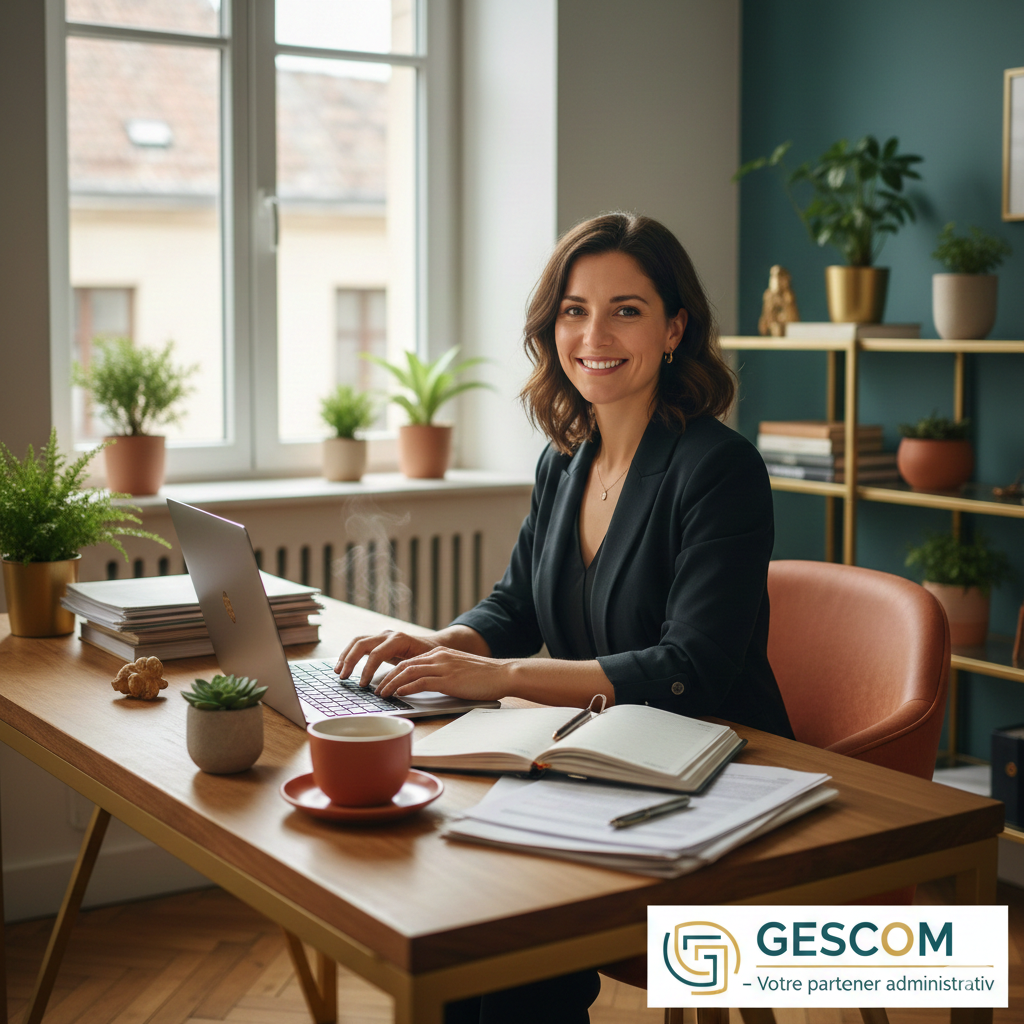
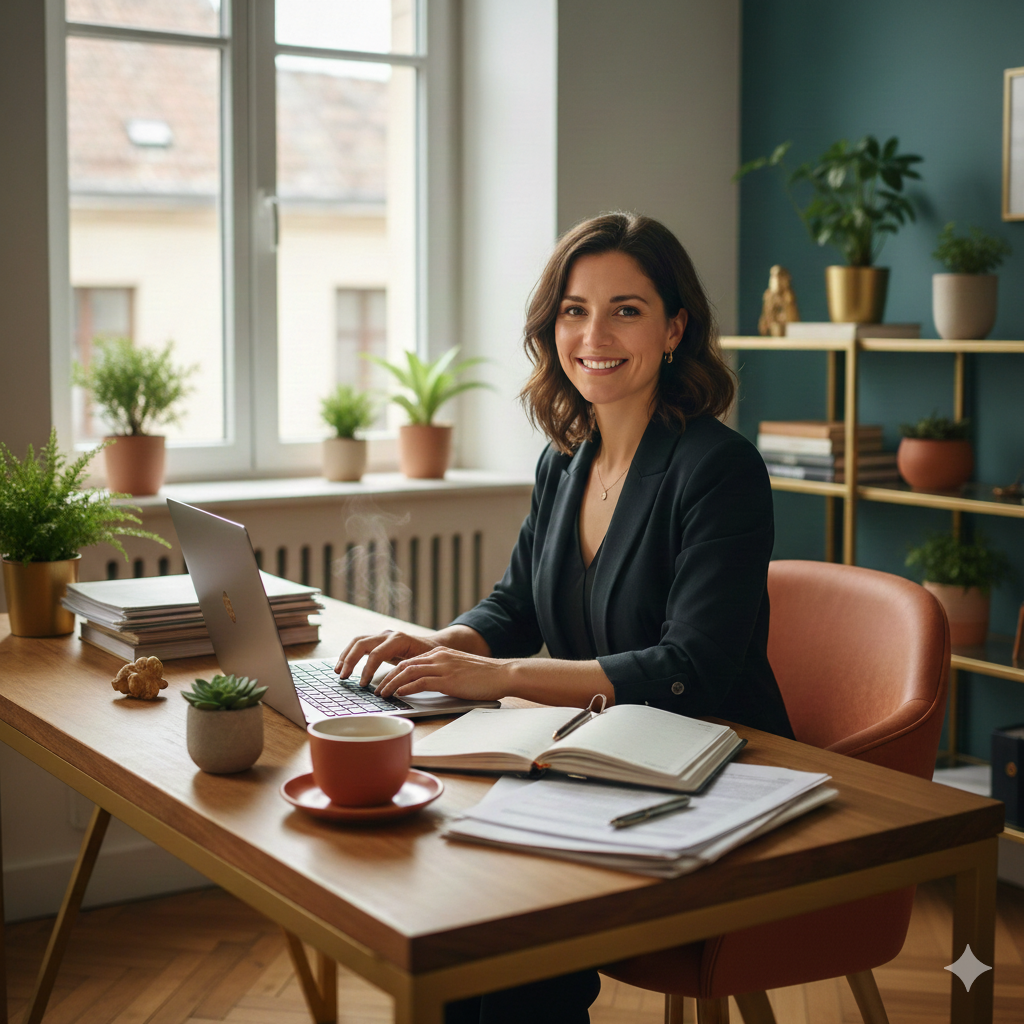
Optimise SEO local Mauricie

Changed region(s): [[0.625, 0.875, 1.0, 1.0], [0.2812, 0.6562, 0.3438, 0.6875]]

diff --git a/finance-template-clean/demo-finance.html b/finance-template-clean/demo-finance.html
@@ -1,11 +1,11 @@
 <!DOCTYPE html>
-<html dir="ltr" lang="en-US">
+<html dir="ltr" lang="fr-CA">
 <head>
 
 	<meta http-equiv="content-type" content="text/html; charset=utf-8">
 	<meta http-equiv="x-ua-compatible" content="IE=edge">
 	<meta name="author" content="SemiColonWeb">
-	<meta name="description" content="GESCOM - Services administratifs &amp; adjointe virtuelle. Votre adjointe administrative, partout et quand vous en avez besoin. Libérez votre temps, je m'occupe de l'administratif.">
+	<meta name="description" content="GESCOM, adjointe administrative en Mauricie (Trois-Rivières, Shawinigan) : services administratifs à distance, gestion des courriels, devis et facturation pour entrepreneurs et PME.">
 
 	<!-- Font Imports -->
 	<link rel="preconnect" href="https://fonts.googleapis.com">
@@ -30,7 +30,7 @@
 
 	<!-- Document Title
 	============================================= -->
-	<title>GESCOM - Votre adjointe administrative à distance</title>
+	<title>GESCOM - Adjointe administrative en Mauricie | Services administratifs</title>
 
 </head>
 
@@ -90,8 +90,8 @@
 			<div class="container">
 				<div class="row align-items-md-end">
 					<div class="col-lg-5 align-self-center flex-column py-6">
-						<h1 class="hero-title display-3 fw-bold color font-body">Votre adjointe administrative à distance</h1>
-						<p class="my-5">Services administratifs &amp; adjointe virtuelle<br>Votre adjointe administrative, partout et quand vous en avez besoin.<br><strong>Libérez votre temps, je m'occupe de l'administratif.</strong></p>
+						<h1 class="hero-title display-3 fw-bold color font-body">Votre adjointe administrative en Mauricie</h1>
+						<p class="my-5">Services administratifs &amp; adjointe virtuelle pour entrepreneurs, PME et travailleurs autonomes en Mauricie (Trois-Rivières, Shawinigan).<br><strong>Libérez votre temps, je m'occupe de l'administratif à distance.</strong></p>
 					<a href="contact.html" class="btn btn-lg btn-dark bg-color rounded-pill mb-5 px-5">Contactez-moi <i class="bi-arrow-right color-2 ms-1"></i></a>
 						<div class="row">
 							<div class="col-sm-6">
@@ -112,7 +112,7 @@
 
 					</div>
 					<div class="col-lg-7 dotted-bg">
-						<img src="demos/finance/images/man.webp" alt="Image 1" class="d-flex align-self-end mt-5 z-1 mx-auto w-75 position-relative">
+						<img src="demos/finance/images/man.webp" alt="Adjointe administrative en Mauricie" class="d-flex align-self-end mt-5 z-1 mx-auto w-75 position-relative">
 					</div>
 				</div>
 			</div>
@@ -128,11 +128,11 @@
 					<div class="row justify-content-center align-items-center col-mb-30">
 						<div class="col-md-5">
 						<h5 class="text-uppercase font-body ls-2 color-2">À propos</h5>
-						<h3 class="mb-0 fw-normal">Une adjointe fiable pour vous accompagner au quotidien</h3>
+						<h3 class="mb-0 fw-normal">Une adjointe fiable pour vous accompagner en Mauricie</h3>
 						</div>
 						<div class="col-md-5 mt-4 mt-md-0">
-<blockquote class="py-0 mb-0"><p>Je suis <strong>Aurélie Genin</strong>, fondatrice de <strong>GESCOM</strong>. J'accompagne les entrepreneurs, indépendants et petites entreprises dans la gestion de leurs tâches administratives, à distance, avec rigueur, confidentialité et professionnalisme.</p>
-					<footer class="blockquote-footer font-primary">En tant qu'adjointe virtuelle, j'interviens comme un véritable soutien administratif externalisé, adapté à vos besoins.</footer></blockquote>
+<blockquote class="py-0 mb-0"><p>Je suis <strong>Aurélie Genin</strong>, fondatrice de <strong>GESCOM</strong>. J'accompagne les entrepreneurs, indépendants et petites entreprises de Mauricie dans la gestion de leurs tâches administratives, à distance, avec rigueur, confidentialité et professionnalisme.</p>
+					<footer class="blockquote-footer font-primary">En tant qu'adjointe virtuelle basée en Mauricie, j'interviens comme un véritable soutien administratif externalisé, adapté à vos besoins.</footer></blockquote>
 
 						</div>
 					</div>
@@ -140,11 +140,11 @@
 
 			<div id="services" class="section dark bg-color" style="padding: 100px 0;">
 
-					<div class="container">
-						<div class="heading-block mw-xs mx-auto text-center mb-6">
+						<div class="container">
+							<div class="heading-block mw-xs mx-auto text-center mb-6">
 					<h5 class="font-body text-uppercase ls-2 color-2">Mes services</h5>
-					<h3 class="text-white text-transform-none ls-0">Des services administratifs complets pour alléger votre quotidien</h3>
-						</div>
+					<h3 class="text-white text-transform-none ls-0">Des services administratifs complets pour alléger votre quotidien en Mauricie</h3>
+							</div>
 						<div class="services-grid gutter-30 position-relative">
 							<div style="background-image: url(demos/finance/images/grid.svg); position: absolute; top: 50%; left: 50%; width: 50vw; height: 50vh; opacity: .15; transform: translate(-50%, -50%);"></div>
 							<img class="op-05" src="demos/finance/images/grid.svg" alt="Grid Image" style="position: absolute; left: -20px; top: -30px; z-index: -1;">
@@ -156,7 +156,7 @@
 										</div>
 										<div class="fbox-content">
 									<h4 class="font-body fw-semibold h4 mb-4 mt-2 ls-0 text-transform-none">Gestion administrative</h4>
-									<p>Traitement et suivi des tâches administratives courantes.</p>
+									<p>Traitement et suivi des tâches administratives courantes pour entrepreneurs et PME de Mauricie.</p>
 											<a href="#" class="hover-button"><u>Read More</u> <i class="bi-arrow-right"></i></a>
 										</div>
 									</div>
@@ -169,7 +169,7 @@
 										</div>
 										<div class="fbox-content">
 									<h4 class="font-body fw-semibold h4 mb-4 mt-2 ls-0 text-transform-none">Devis &amp; facturation</h4>
-									<p>Suivi des devis, factures et documents commerciaux.</p>
+									<p>Suivi des devis, factures et documents commerciaux pour vos clients en Mauricie.</p>
 											<a href="#" class="hover-button"><u>Read More</u> <i class="bi-arrow-right"></i></a>
 										</div>
 									</div>
@@ -182,7 +182,7 @@
 										</div>
 										<div class="fbox-content">
 									<h4 class="font-body fw-semibold h4 mb-4 mt-2 ls-0 text-transform-none">Organisation &amp; classement</h4>
-									<p>Classement, organisation et gestion des documents.</p>
+									<p>Classement, organisation et gestion des documents pour garder vos dossiers structurés en Mauricie.</p>
 											<a href="#" class="hover-button"><u>Read More</u> <i class="bi-arrow-right"></i></a>
 										</div>
 									</div>
@@ -195,7 +195,7 @@
 										</div>
 										<div class="fbox-content">
 									<h4 class="font-body fw-semibold h4 mb-4 mt-2 ls-0 text-transform-none">Gestion des emails</h4>
-									<p>Traitement et suivi des courriels professionnels.</p>
+									<p>Traitement et suivi des courriels professionnels pour vos clients et partenaires en Mauricie.</p>
 											<a href="#" class="hover-button"><u>Read More</u> <i class="bi-arrow-right"></i></a>
 										</div>
 									</div>
@@ -208,7 +208,7 @@
 										</div>
 										<div class="fbox-content">
 									<h4 class="font-body fw-semibold h4 mb-4 mt-2 ls-0 text-transform-none">Assistance commerciale</h4>
-									<p>Support administratif pour la relation client et le suivi commercial.</p>
+									<p>Support administratif pour la relation client et le suivi commercial en Mauricie.</p>
 											<a href="#" class="hover-button"><u>Read More</u> <i class="bi-arrow-right"></i></a>
 										</div>
 									</div>
@@ -221,7 +221,7 @@
 										</div>
 										<div class="fbox-content">
 									<h4 class="font-body fw-semibold h4 mb-4 mt-2 ls-0 text-transform-none">Support administratif à distance</h4>
-									<p>Une assistance flexible, adaptée à votre activité.</p>
+									<p>Une assistance flexible, adaptée à votre activité et disponible à distance en Mauricie.</p>
 											<a href="#" class="hover-button"><u>Read More</u> <i class="bi-arrow-right"></i></a>
 										</div>
 									</div>
@@ -240,7 +240,7 @@
 							<div class="col-lg-4 col-md-5 text-center">
 								<img src="demos/finance/images/file-text.svg" alt="Globe Icon" class="mb-5" height="100">
 						<h3 class="font-body h2 mb-4 color">Pourquoi faire confiance à GESCOM ?</h3>
-						<p class="text-larger fw-normal text-muted mb-0">Une adjointe administrative professionnelle, disponible à distance, qui s'adapte à vos besoins et à votre rythme.</p>
+						<p class="text-larger fw-normal text-muted mb-0">Une adjointe administrative professionnelle basée en Mauricie, disponible à distance, qui s'adapte à vos besoins et à votre rythme.</p>
 							</div>
 							<div class="col-md-1 text-center d-md-flex justify-content-center align-self-stretch">
 								<div class="border-end border-default d-none d-md-block"></div>
@@ -250,7 +250,7 @@
 							<div class="col-lg-4 col-md-5 text-center">
 								<img src="demos/finance/images/users.svg" alt="Users Icon" class="mb-5" height="100">
 						<h3 class="font-body h2 mb-4 color">Travail flexible &amp; personnalisé</h3>
-						<p class="text-larger fw-normal text-muted mb-0">Services sur mesure adaptés aux entrepreneurs, indépendants et petites entreprises. Rigueur, confidentialité et professionnalisme garantis.</p>
+						<p class="text-larger fw-normal text-muted mb-0">Services sur mesure adaptés aux entrepreneurs, indépendants et petites entreprises en Mauricie. Rigueur, confidentialité et professionnalisme garantis.</p>
 							</div>
 						</div>
 						<div class="row mt-6">
@@ -261,11 +261,11 @@
 					</div>
 				</div>
 
-				<div class="container bg-color p-5 p-lg-6 mb-6" style="border-radius: 10px">
+				<div id="contact" class="container bg-color p-5 p-lg-6 mb-6" style="border-radius: 10px">
 					<div class="row justify-content-around">
 						<div class="col-lg-7 dark">
-					<h3 class="mb-4 display-4 text-transform-none ls-0 fw-semibold">Contactez-moi</h3>
-					<p class="mw-xs lead op-07 mb-5">Vous souhaitez déléguer votre gestion administrative ? Contactez-moi pour échanger sur vos besoins.</p>
+					<h3 class="mb-4 display-4 text-transform-none ls-0 fw-semibold">Contactez-moi en Mauricie</h3>
+					<p class="mw-xs lead op-07 mb-5">Vous souhaitez déléguer votre gestion administrative en Mauricie ? Contactez-moi pour échanger sur vos besoins et vos priorités locales.</p>
 							<div class="feature-box fbox-sm mb-4">
 								<div class="fbox-icon">
 									<i class="bi-geo-alt bg-color-2 color"></i>

diff --git a/finance-template-clean/a-propos.html b/finance-template-clean/a-propos.html
@@ -1,11 +1,11 @@
 <!DOCTYPE html>
-<html dir="ltr" lang="en-US">
+<html dir="ltr" lang="fr-CA">
 <head>
 
 	<meta http-equiv="content-type" content="text/html; charset=utf-8">
 	<meta http-equiv="x-ua-compatible" content="IE=edge">
 	<meta name="author" content="SemiColonWeb">
-	<meta name="description" content="GESCOM - À propos de nous. Découvrez notre histoire, notre mission et nos valeurs.">
+	<meta name="description" content="À propos de GESCOM, adjointe administrative en Mauricie : mission, valeurs et accompagnement des entrepreneurs et PME (Trois-Rivières, Shawinigan) dans leurs tâches administratives.">
 
 	<!-- Font Imports -->
 	<link rel="preconnect" href="https://fonts.googleapis.com">
@@ -30,7 +30,7 @@
 
 	<!-- Document Title
 	============================================= -->
-	<title>À Propos - GESCOM - Votre adjointe administrative à distance</title>
+	<title>À Propos - GESCOM | Adjointe administrative en Mauricie</title>
 
 </head>
 
@@ -90,8 +90,8 @@
 		============================================= -->
 		<section id="page-title" class="page-title-center" style="background: #2646532b url('demos/finance/images/hero-bg.webp') center bottom no-repeat; background-size: 100% auto; padding: 120px 0 80px;">
 			<div class="container">
-				<h1 class="display-4 fw-bold color font-body">À Propos de Gescom</h1>
-				<span class="color-2 font-body">Découvrez notre histoire, notre mission et nos valeurs</span>
+				<h1 class="display-4 fw-bold color font-body">À propos de GESCOM en Mauricie</h1>
+				<span class="color-2 font-body">Adjointe administrative pour les entrepreneurs et PME de Mauricie</span>
 			</div>
 		</section><!-- #page-title end -->
 
@@ -104,19 +104,19 @@
 				<div class="container my-5">
 					<div class="row align-items-center">
 						<div class="col-lg-6 mb-5 mb-lg-0">
-				<img src="demos/finance/images/gemini-gescom.webp" alt="Aurélie Genin - GESCOM" class="rounded-6 shadow-lg">
+				<img src="demos/finance/images/gemini-gescom.webp" alt="Aurélie Genin - GESCOM, adjointe administrative en Mauricie" class="rounded-6 shadow-lg">
 						</div>
 						<div class="col-lg-6 ps-lg-5">
 							<h5 class="text-uppercase font-body ls-2 color-2 mb-3">Notre Histoire</h5>
 							<h2 class="fw-bold color mb-4">GESCOM est née d'une première expérience avec nos clients</h2>
 							<p class="lead mb-4">
-								Tout a commencé par une simple observation : de nombreux entrepreneurs et petites entreprises débordaient sous le poids des tâches administratives, les empêchant de se concentrer sur leur cœur de métier.
+								Tout a commencé par une simple observation en Mauricie : de nombreux entrepreneurs et petites entreprises débordaient sous le poids des tâches administratives, les empêchant de se concentrer sur leur cœur de métier.
 							</p>
 							<p class="mb-4">
-								<strong>Aurélie Genin</strong>, forte de plusieurs années d'expérience dans l'administration et la gestion commerciale, a décidé de mettre son expertise au service de ceux qui en ont le plus besoin. C'est ainsi qu'est né <strong>GESCOM</strong> en 2020, avec une mission claire : libérer les entrepreneurs du fardeau administratif.
+								<strong>Aurélie Genin</strong>, forte de plusieurs années d'expérience dans l'administration et la gestion commerciale, a décidé de mettre son expertise au service des entreprises de Mauricie qui en ont le plus besoin. C'est ainsi qu'est né <strong>GESCOM</strong> en 2020, avec une mission claire : libérer les entrepreneurs du fardeau administratif.
 							</p>
 							<p class="mb-4">
-								Chaque client rencontré depuis le début a enrichi notre approche. Des premières factures aux tableaux de bord complexes, des simples relances aux accompagnements personnalisés, nous avons construit notre méthode de travail autour de vos besoins réels.
+								Chaque client rencontré en Mauricie depuis le début a enrichi notre approche. Des premières factures aux tableaux de bord complexes, des simples relances aux accompagnements personnalisés, nous avons construit notre méthode de travail autour de vos besoins réels, que vous soyez à Trois-Rivières, Shawinigan ou Saint-Élie-de-Caxton.
 							</p>
 							<blockquote class="blockquote">
 								<p class="mb-0">"Chaque entreprise mérite un soutien administratif professionnel, adapté à sa réalité et à son rythme de croissance."</p>
@@ -134,12 +134,12 @@
 						<div class="row justify-content-center align-items-center col-mb-30">
 							<div class="col-md-5">
 								<h5 class="text-uppercase font-body ls-2 color-2">À propos</h5>
-								<h3 class="mb-0 fw-normal">Une adjointe fiable pour vous accompagner au quotidien</h3>
+								<h3 class="mb-0 fw-normal">Une adjointe fiable pour vous accompagner en Mauricie</h3>
 							</div>
 							<div class="col-md-5 mt-4 mt-md-0">
 								<blockquote class="py-0 mb-0">
-									<p>Je suis <strong>Aurélie Genin</strong>, fondatrice de <strong>GESCOM</strong>. J'accompagne les entrepreneurs, indépendants et petites entreprises dans la gestion de leurs tâches administratives, à distance, avec rigueur, confidentialité et professionnalisme.</p>
-									<footer class="blockquote-footer font-primary">En tant qu'adjointe virtuelle, j'interviens comme un véritable soutien administratif externalisé, adapté à vos besoins.</footer>
+									<p>Je suis <strong>Aurélie Genin</strong>, fondatrice de <strong>GESCOM</strong>. J'accompagne les entrepreneurs, indépendants et petites entreprises de Mauricie dans la gestion de leurs tâches administratives, à distance, avec rigueur, confidentialité et professionnalisme.</p>
+									<footer class="blockquote-footer font-primary">En tant qu'adjointe virtuelle basée en Mauricie, j'interviens comme un véritable soutien administratif externalisé, adapté à vos besoins.</footer>
 								</blockquote>
 							</div>
 						</div>

diff --git a/finance-template-clean/contact.html b/finance-template-clean/contact.html
@@ -1,11 +1,11 @@
 <!DOCTYPE html>
-<html dir="ltr" lang="en-US">
+<html dir="ltr" lang="fr-CA">
 <head>
 
 	<meta http-equiv="content-type" content="text/html; charset=utf-8">
 	<meta http-equiv="x-ua-compatible" content="IE=edge">
 	<meta name="author" content="SemiColonWeb">
-	<meta name="description" content="GESCOM - Services administratifs &amp; adjointe virtuelle. Votre adjointe administrative, partout et quand vous en avez besoin. Libérez votre temps, je m'occupe de l'administratif.">
+	<meta name="description" content="Contactez GESCOM, adjointe administrative en Mauricie (Trois-Rivières, Shawinigan) pour déléguer vos tâches administratives, devis, facturation et gestion des courriels.">
 
 	<!-- Font Imports -->
 	<link rel="preconnect" href="https://fonts.googleapis.com">
@@ -31,7 +31,7 @@
 
 	<!-- Document Title
 	============================================= -->
-	<title>Contact - GESCOM - Votre adjointe administrative à distance</title>
+	<title>Contact - GESCOM | Adjointe administrative en Mauricie</title>
 
 	<style>
 		.block-contact-1,
@@ -174,8 +174,8 @@
 					<div class="col-md-5">
 						<div class="dark h-100 min-vh-md-100 d-flex flex-column justify-content-between p-5" style="background-image: radial-gradient(circle at 100% 0%, #E76F51 0%, #E76F51 10%, transparent 10%,  transparent 100%), radial-gradient(circle at 90% 103%, transparent 30%, #264653 30%, #264653 100%),linear-gradient(90deg, #E9C46A,#E9C46A);">
 							<div>
-								<h1 class="fw-bold mb-1">Contactez-nous</h1>
-								<p class=" text-white-50 mb-5 mb-md-0">Prenez contact avec nous. Notre équipe vous répondra dans les 24 heures.</p>
+								<h1 class="fw-bold mb-1">Contactez-nous en Mauricie</h1>
+								<p class=" text-white-50 mb-5 mb-md-0">Prenez contact avec votre adjointe administrative en Mauricie (Trois-Rivières, Shawinigan, Saint-Élie-de-Caxton). Réponse sous 24 heures pour vos besoins de gestion administrative, devis et facturation.</p>
 							</div>
 
 							<div>
@@ -240,7 +240,7 @@
 
 							<div class="form-result"></div>
 
-							<form class="mb-0" id="template-contactform" name="template-contactform" action="include/form.php" method="post">
+							<form class="mb-0" id="template-contactform" name="template-contactform" action="https://formspree.io/f/xpqwyozb" method="post">
 
 								<div class="form-process">
 									<div class="css3-spinner">
@@ -329,7 +329,7 @@
 							<div class="widget">
 
 								<div class="fw-semibold font-primary color ls-3 h2 text-uppercase mb-4">GESCOM<span class="color-2">.</span></div>
-								<p class="mb-4 op-07"><strong>Services administratifs &amp; adjointe virtuelle</strong><br>Votre adjointe administrative, partout et quand vous en avez besoin.<br><em>Libérez votre temps, je m'occupe de l'administratif.</em></p>
+								<p class="mb-4 op-07"><strong>Services administratifs &amp; adjointe virtuelle en Mauricie</strong><br>Votre adjointe administrative à distance pour Trois-Rivières, Shawinigan et les environs.<br><em>Libérez votre temps, je m'occupe de l'administratif.</em></p>
 
 								<a href="#" class="social-icon si-small bg-light h-bg-facebook">
 									<i class="fa-brands fa-facebook-f"></i>

diff --git a/finance-template-clean/include/form.php b/finance-template-clean/include/form.php
@@ -27,8 +27,8 @@ require 'phpmailer/src/SMTP.php';
 $toemails = array();
 
 $toemails[] = array(
-	'email' => 'your-email@website.com', // Your Email Address
-	'name' => 'Your Name' // Your Name
+	'email' => 'gescom.mauricie@gmail.com', // Your Email Address
+	'name' => 'GESCOM' // Your Name
 );
 
 
@@ -37,8 +37,8 @@ $toemails[] = array(
 ---------------------------------------------------*/
 
 $fromemail = array(
-	'email' => 'no-reply@website.com', // Company's Email Address (preferably currently used Domain Name)
-	'name' => 'Company Name' // Company Name
+	'email' => 'contact@gescom.digital', // Company's Email Address (preferably currently used Domain Name)
+	'name' => 'GESCOM - Contact' // Company Name
 );
 
 
@@ -66,6 +66,15 @@ $mail = new PHPMailer();
 
 /* Add your SMTP Codes after this Line */
 
+// Configuration SMTP Gmail
+$mail->isSMTP();
+$mail->Host = 'smtp.gmail.com';
+$mail->SMTPAuth = true;
+$mail->Username = 'gescom.mauricie@gmail.com';
+$mail->Password = 'YOUR_GMAIL_APP_PASSWORD'; // À remplacer par le mot de passe d'application Gmail
+$mail->SMTPSecure = PHPMailer::ENCRYPTION_STARTTLS;
+$mail->Port = 587;
+$mail->CharSet = 'UTF-8';
 
 // End of SMTP
 
@@ -75,12 +84,12 @@ $mail = new PHPMailer();
 ---------------------------------------------------*/
 
 $message = array(
-	'success'			=> 'We have <strong>successfully</strong> received your Message and will get Back to you as soon as possible.',
-	'error'				=> 'Email <strong>could not</strong> be sent due to some Unexpected Error. Please Try Again later.',
-	'error_bot'			=> 'Bot Detected! Form could not be processed! Please Try Again!',
-	'error_unexpected'	=> 'An <strong>unexpected error</strong> occured. Please Try Again later.',
-	'captcha_invalid'	=> 'Captcha not Validated! Please Try Again!',
-	'captcha_error'		=> 'Captcha not Submitted! Please Try Again.'
+	'success'			=> 'Nous avons <strong>bien reçu</strong> votre message et vous répondrons dans les plus brefs délais.',
+	'error'				=> 'L\'email <strong>n\'a pas pu être envoyé</strong> en raison d\'une erreur. Veuillez réessayer plus tard.',
+	'error_bot'			=> 'Bot détecté ! Le formulaire ne peut pas être traité. Veuillez réessayer !',
+	'error_unexpected'	=> 'Une <strong>erreur inattendue</strong> s\'est produite. Veuillez réessayer plus tard.',
+	'captcha_invalid'	=> 'Captcha non validé ! Veuillez réessayer !',
+	'captcha_error'		=> 'Captcha non soumis ! Veuillez réessayer.'
 );
 
 
